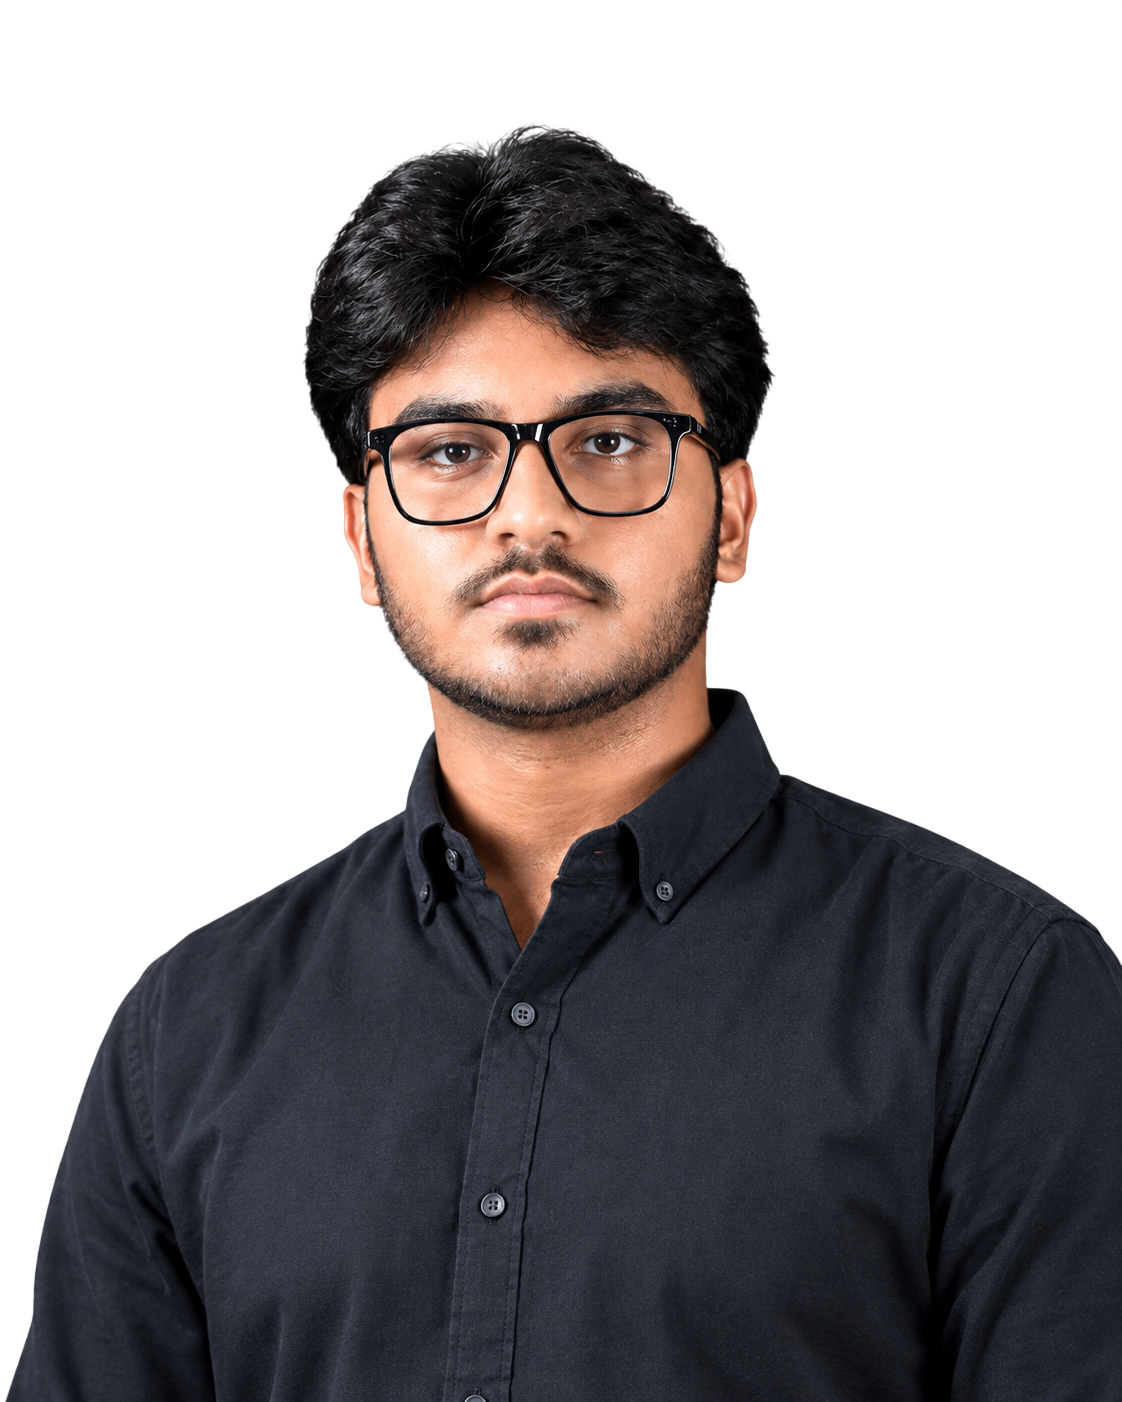
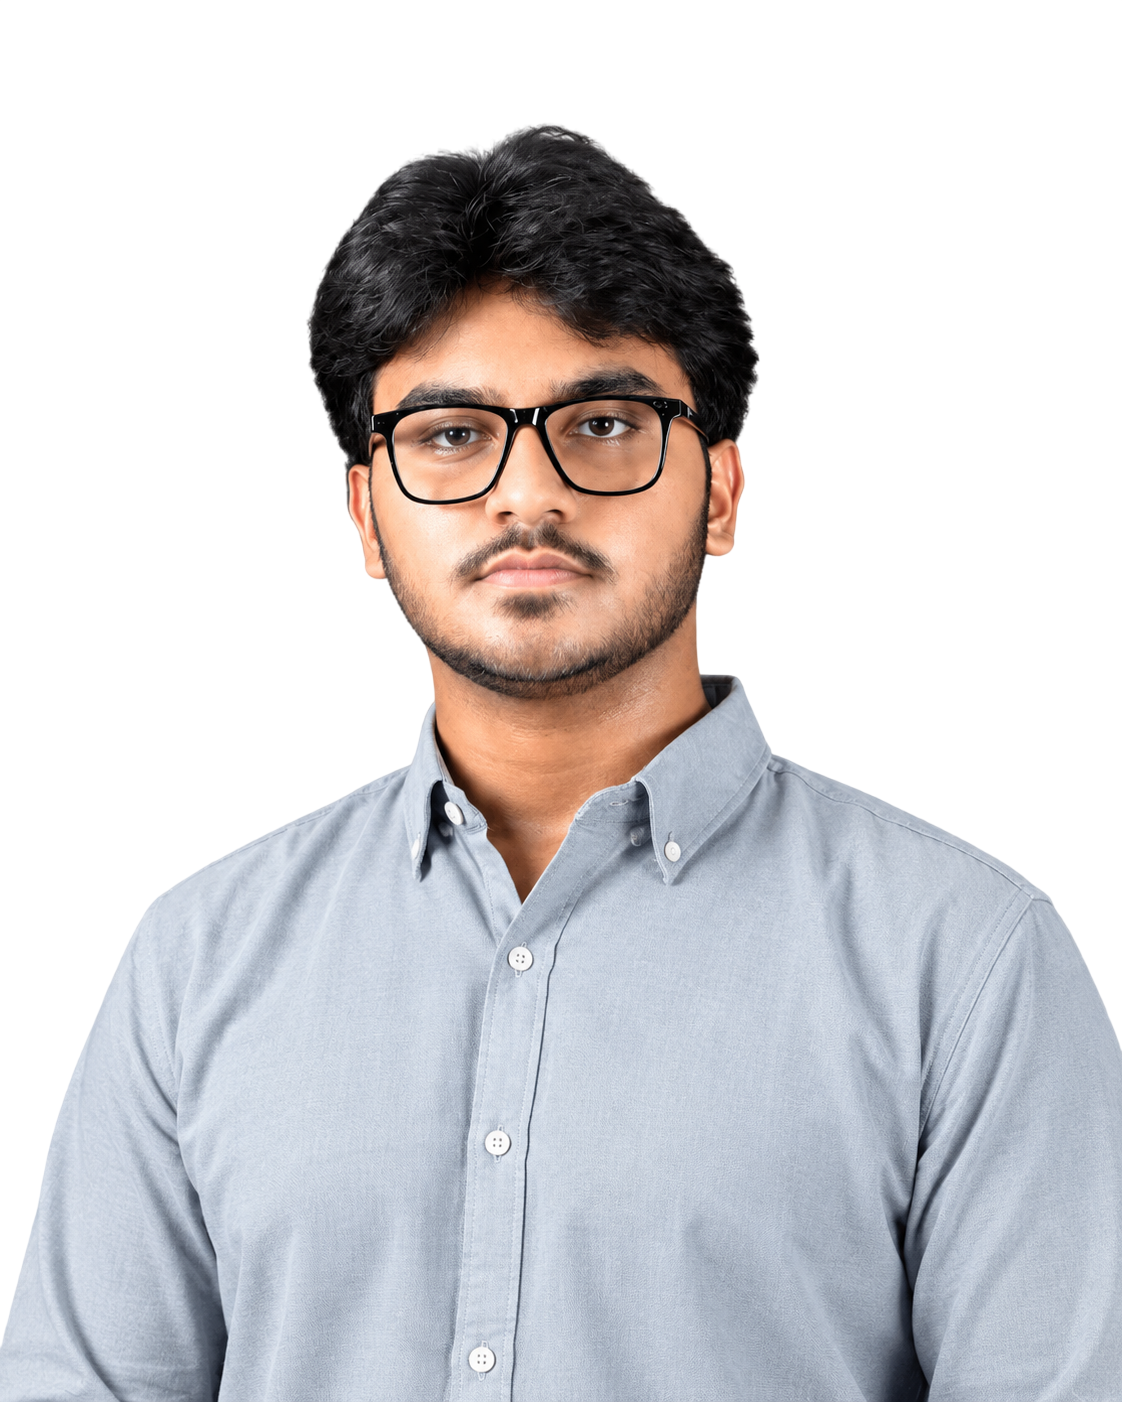
feat(qa): complete link audits, production build, and documentation

diff --git a/scripts/verify-links.ts b/scripts/verify-links.ts
@@ -1,0 +1,51 @@
+import { allProjects } from "../src/content/projects";
+import { siteConfig } from "../src/content/site";
+
+async function checkUrl(url: string): Promise<{ url: string; status: number | string; ok: boolean }> {
+  try {
+    const controller = new AbortController();
+    const timeout = setTimeout(() => controller.abort(), 6000);
+    const res = await fetch(url, {
+      method: "HEAD",
+      signal: controller.signal,
+      headers: {
+        "User-Agent": "Mozilla/5.0 (Windows NT 10.0; Win64; x64) AppleWebKit/537.36",
+      },
+    });
+    clearTimeout(timeout);
+    return { url, status: res.status, ok: res.status < 400 || res.status === 403 || res.status === 405 || res.status === 429 };
+  } catch (err: any) {
+    return { url, status: err.name === "AbortError" ? "Timeout" : err.message, ok: false };
+  }
+}
+
+async function verifyAllLinks() {
+  console.log("🔍 Verifying all external URLs in Raj Shah Portfolio...\n");
+
+  const urlsToCheck = new Set<string>();
+
+  // Socials
+  urlsToCheck.add(siteConfig.socials.linkedin);
+  urlsToCheck.add(siteConfig.socials.github);
+
+  // Projects
+  allProjects.forEach((p) => {
+    if (p.links.live) urlsToCheck.add(p.links.live);
+    if (p.links.github) urlsToCheck.add(p.links.github);
+    if (p.links.caseStudy && p.links.caseStudy.startsWith("http")) urlsToCheck.add(p.links.caseStudy);
+  });
+
+  const results = await Promise.all(Array.from(urlsToCheck).map(checkUrl));
+
+  console.table(
+    results.map((r) => ({
+      URL: r.url.length > 50 ? r.url.substring(0, 47) + "..." : r.url,
+      Status: r.status,
+      Reachable: r.ok ? "✅ Yes" : "⚠ Check Manually",
+    }))
+  );
+
+  console.log("\nLink verification audit complete.");
+}
+
+verifyAllLinks();

diff --git a/src/components/sections/Toolbox.tsx b/src/components/sections/Toolbox.tsx
@@ -118,6 +118,30 @@ export function Toolbox() {
       Runner.run(runner, engine);
       Render.run(render);
 
+      // Custom text rendering on top of physics bodies
+      Matter.Events.on(render, "afterRender", () => {
+        const ctx = canvas.getContext("2d");
+        if (!ctx) return;
+
+        chipBodies.forEach((body) => {
+          const tool = (body as any).toolData as ToolItem;
+          if (!tool) return;
+
+          ctx.save();
+          ctx.translate(body.position.x, body.position.y);
+          ctx.rotate(body.angle);
+
+          ctx.font = "600 12px 'JetBrains Mono', monospace";
+          ctx.textAlign = "center";
+          ctx.textBaseline = "middle";
+
+          ctx.fillStyle = tool.isLearning ? "#F59E0B" : "#F4F4F0";
+          ctx.fillText(tool.name, 0, 0);
+
+          ctx.restore();
+        });
+      });
+
       // Click detection on physics chips
       Matter.Events.on(mouseConstraint, "mousedown", (event: any) => {
         const mousePosition = event.mouse.position;

diff --git a/src/content/site.ts b/src/content/site.ts
@@ -28,9 +28,9 @@ export const siteConfig = {
   },
 
   heroScrambleLines: [
-    "=> Design-led frontend engineering",
-    "=> Product thinking from real problems",
-    "=> API-powered apps and lean serverless",
+    "Design-led frontend engineering",
+    "Product thinking from real problems",
+    "API-powered apps and lean serverless",
   ],
 
   verifiedStats: [

diff --git a/next.config.ts b/next.config.ts
@@ -1,7 +1,9 @@
 import type { NextConfig } from "next";
+import path from "path";
 
 const nextConfig: NextConfig = {
   reactStrictMode: true,
+  outputFileTracingRoot: path.join(__dirname),
   images: {
     formats: ["image/avif", "image/webp"],
     remotePatterns: [

diff --git a/README.md b/README.md
@@ -1,0 +1,93 @@
+# Raj Shah — Portfolio
+
+> **Design-led product engineering: distinctive web experiences and useful software built around real user problems.**  
+> Built with Next.js (App Router, React 19), Tailwind CSS v4 (Obsidian Lime), GSAP, React Three Fiber, Motion, and Lenis.
+
+---
+
+## 1. Positioning & Factual Integrity
+
+- **Profile**: Raj Shah is a first-year B.Tech Computer Science and Engineering student at Nirma University (Ahmedabad, India) and an entrepreneur-turned product builder.
+- **Goals**: (1) Attract high-velocity software engineering internships, (2) Win selective freelance contracts.
+- **Integrity Rule**: No invented metrics, user counts, client contracts, revenue, uptime, or fake certificates. All data is verified from [`docs/verified-facts.md`](file:///c:/Users/Raj%20Shah/OneDrive/Desktop/Portfolio/docs/verified-facts.md) and [`docs/bio.md`](file:///c:/Users/Raj%20Shah/OneDrive/Desktop/Portfolio/docs/bio.md).
+- **Missing Media**: Tracked in [`MISSING_ASSETS.md`](file:///c:/Users/Raj%20Shah/OneDrive/Desktop/Portfolio/MISSING_ASSETS.md). When media is pending, a clean typographic card is displayed. Never generate synthetic product screenshots.
+
+---
+
+## 2. Tech Stack & Architecture
+
+- **Framework**: Next.js 15+ (App Router, Server Components by default).
+- **Styling**: Tailwind CSS v4 using CSS variable tokens defined in [`src/styles/tokens.css`](file:///c:/Users/Raj%20Shah/OneDrive/Desktop/Portfolio/src/styles/tokens.css) (Dark-only Obsidian Lime palette).
+- **Scroll & Ticker**: Lenis smooth scroll driven synchronously by `gsap.ticker` with `lagSmoothing(0)`.
+- **Motion & Physics**:
+  - GSAP (ScrollTrigger, DrawSVG) for pinned scroll scrub, progress lines, and signature vector drawing.
+  - Motion (`motion/react`) for layout animations, magnetic springs, and modals.
+  - Matter.js for the interactive Toolbox chip pile.
+  - React Three Fiber + Three.js for the Hero 2.5D depth-displacement shader plane.
+- **Search & Discovery**: `cmdk` command palette accessible via `Cmd+K` or `/`.
+- **Calm Mode**: Built-in toggle (and auto-detection for `prefers-reduced-motion` and low-spec devices) that pauses WebGL, physics, scramble, and parallax for a calm reading experience.
+- **Technical SEO & AIEO**:
+  - JSON-LD Schemas: `Person`, `WebSite`, `ProfilePage`, `SoftwareApplication`, `FAQPage`, `BreadcrumbList`.
+  - Permissive AI Crawler configuration in [`src/app/robots.ts`](file:///c:/Users/Raj%20Shah/OneDrive/Desktop/Portfolio/src/app/robots.ts).
+  - Machine-readable indices at `/llms.txt` and `/llms-full.txt`.
+
+---
+
+## 3. Project Structure
+
+```
+src/
+├── app/
+│   ├── layout.tsx             # Root layout, fonts, JSON-LD, Lenis/GSAP providers
+│   ├── page.tsx               # Home: Loader, Hero, Stats, Work, Process, Toolbox, Lab, Testimonials, Contact
+│   ├── work/[slug]/           # Dynamic 8-part case study route with static generation
+│   ├── lab/                   # Interactive Lab sandbox (3 live working experiments)
+│   ├── about/                 # Answer-first bio, verified timeline, capabilities & FAQs
+│   ├── not-found.tsx          # Accessible 404 page
+│   ├── robots.ts              # Robots.txt with AI search crawler support
+│   ├── sitemap.ts             # Dynamic canonical XML sitemap
+│   ├── llms.txt/route.ts      # Concise AI search index
+│   └── llms-full.txt/route.ts # Full factual markdown dossier
+├── components/
+│   ├── ui/                    # Button, Badge, Cursor, MediaPendingCard, BeforeAfterSlider, CommandPalette, LiveClock, CalmModeToggle
+│   ├── sections/              # Loader, Hero, StatsTicker, SelectedWork, ProjectArchive, Process, Toolbox, LabTeaser, Testimonials, Contact
+│   ├── webgl/                 # HeroDepthCanvas (R3F 2.5D shader plane)
+│   └── navigation/            # Header, MobileMenu, Footer
+├── content/
+│   ├── schema.ts              # Zod validation schemas
+│   ├── site.ts                # Global verified facts, social links, FAQs, timeline
+│   └── projects/              # Dedicated data file per project (ARC, DEVIntel, Alchemy Stories, etc.)
+├── hooks/                     # useMagnetic, useScramble, usePrefersCalm
+├── lib/                       # gsap, lenis, jsonld, utils
+└── styles/                    # tokens.css (Tailwind v4 @theme & Obsidian Lime variables)
+```
+
+---
+
+## 4. How to Manage Project Data
+
+As requested, each project lives in its own dedicated file under `src/content/projects/`:
+- `arc.ts`
+- `devintel.ts`
+- `alchemy-stories.ts`
+- `tunnel-flap.ts`
+- `ghar.ts`
+- `brewnest.ts`
+- `scenevault.ts`
+- `urbannest.ts`
+- `fintrack.ts`
+- `sticky-wall.ts`
+
+### Adding a New Project:
+1. Create `src/content/projects/<slug>.ts` exporting a `Project` object adhering to `ProjectSchema`.
+2. Register and import it in `src/content/projects/index.ts`.
+3. The project will automatically populate the home page, project archive table, static paths `/work/<slug>`, dynamic OpenGraph cards, sitemap, and AI indices!
+
+---
+
+## 5. Scripts
+
+- **Development**: `pnpm dev` (starts dev server on http://localhost:3000)
+- **Production Build**: `pnpm build` (compiles and statically exports all routes)
+- **Link Verification**: `pnpm verify-links` (audits all external URLs for active HTTP status)
+- **Type Check**: `pnpm tsc --noEmit`
